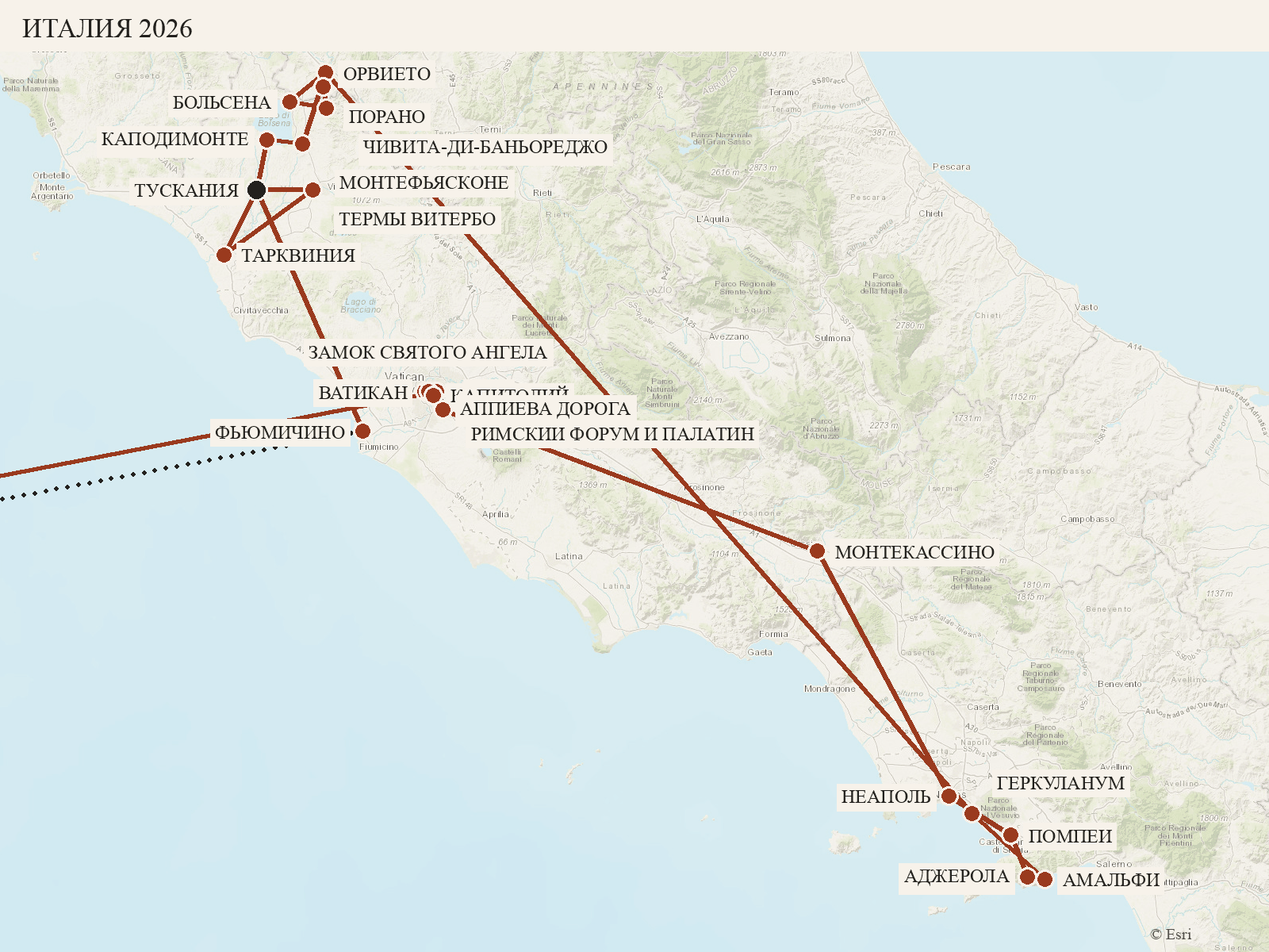
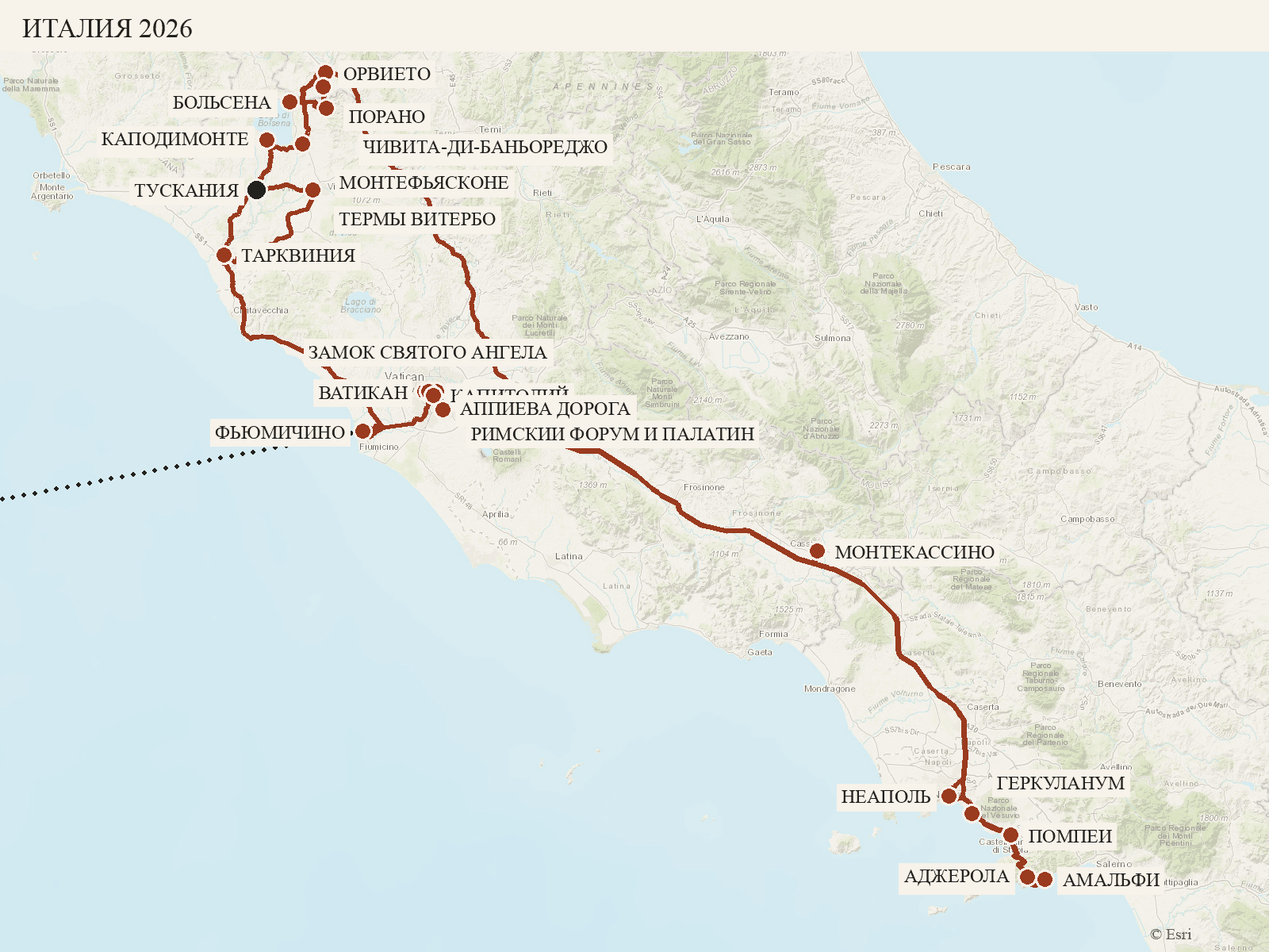
Карта по реальным дорогам вместо прямых линий
- tools/road_routes.py: один раз берёт маршруты у OSRM, упрощает до ~40 м, data/roads.json (26 КБ)
- живая карта и статичная PNG рисуют дороги; перелёты по-прежнему пунктиром
- 30.10: Лиссабон → Фьюмичино (перелёт) → Рим (машина)

diff --git a/data/trip.js b/data/trip.js
@@ -1,1 +1,1 @@
-window.TRIP={"today":"2026-11-11","stops":[{"id":"orvieto","name":"Орвието","lat":42.7185,"lon":12.1107,"kind":"town","note":null},{"id":"montefiascone","name":"Монтефьясконе","lat":42.537,"lon":12.031,"kind":"town","note":null},{"id":"capodimonte","name":"Каподимонте","lat":42.547,"lon":11.906,"kind":"town","note":null},{"id":"tuscania","name":"Тускания","lat":42.4206,"lon":11.8706,"kind":"stay","note":"жильё 10–13.11"},{"id":"tarquinia","name":"Тарквиния","lat":42.254,"lon":11.758,"kind":"site","note":"этрусский некрополь и музей"},{"id":"viterbo-terme","name":"Термы Витербо","lat":42.4207,"lon":12.0675,"kind":"site","note":null},{"id":"fiumicino","name":"Фьюмичино","lat":41.8003,"lon":12.2389,"kind":"airport","note":null},{"id":"lisbon","name":"Лиссабон","lat":38.7223,"lon":-9.1393,"kind":"transit","note":null},{"id":"rome","name":"Рим","lat":41.9028,"lon":12.4964,"kind":"town","note":null},{"id":"vatican","name":"Ватикан","lat":41.9022,"lon":12.4539,"kind":"site","note":"собор Святого Петра"},{"id":"castel-santangelo","name":"Замок Святого Ангела","lat":41.9031,"lon":12.4663,"kind":"site","note":null},{"id":"forum","name":"Римский форум и Палатин","lat":41.8925,"lon":12.4853,"kind":"site","note":null},{"id":"capitol","name":"Капитолий","lat":41.8933,"lon":12.4829,"kind":"site","note":null},{"id":"appia","name":"Аппиева дорога","lat":41.856,"lon":12.516,"kind":"site","note":null},{"id":"montecassino","name":"Монтекассино","lat":41.4903,"lon":13.8139,"kind":"site","note":"аббатство"},{"id":"naples","name":"Неаполь","lat":40.8518,"lon":14.2681,"kind":"town","note":null},{"id":"pompeii","name":"Помпеи","lat":40.7491,"lon":14.4847,"kind":"site","note":null},{"id":"agerola","name":"Аджерола","lat":40.6385,"lon":14.542,"kind":"town","note":null},{"id":"amalfi","name":"Амальфи","lat":40.634,"lon":14.6027,"kind":"town","note":null},{"id":"herculaneum","name":"Геркуланум","lat":40.8059,"lon":14.3478,"kind":"site","note":null},{"id":"porano","name":"Порано","lat":42.6826,"lon":12.1016,"kind":"town","note":null},{"id":"civita","name":"Чивита-ди-Баньореджо","lat":42.6276,"lon":12.1137,"kind":"town","note":null},{"id":"bolsena","name":"Больсена","lat":42.6449,"lon":11.9858,"kind":"town","note":null}],"route":[{"id":"lisbon","date":"2026-10-30"},{"id":"rome","date":"2026-10-30"},{"id":"vatican","date":"2026-10-31"},{"id":"castel-santangelo","date":"2026-10-31"},{"id":"forum","date":"2026-11-01"},{"id":"capitol","date":"2026-11-01"},{"id":"appia","date":"2026-11-02"},{"id":"montecassino","date":"2026-11-02"},{"id":"naples","date":"2026-11-02"},{"id":"pompeii","date":"2026-11-05"},{"id":"agerola","date":"2026-11-05"},{"id":"amalfi","date":"2026-11-06"},{"id":"herculaneum","date":"2026-11-07"},{"id":"orvieto","date":"2026-11-07"},{"id":"porano","date":"2026-11-08"},{"id":"civita","date":"2026-11-08"},{"id":"bolsena","date":"2026-11-08"},{"id":"orvieto","date":"2026-11-09"},{"id":"montefiascone","date":"2026-11-10"},{"id":"capodimonte","date":"2026-11-10"},{"id":"tuscania","date":"2026-11-10"},{"id":"tarquinia","date":"2026-11-11"},{"id":"viterbo-terme","date":"2026-11-11"},{"id":"tuscania","date":"2026-11-12"},{"id":"tarquinia","date":"2026-11-12"},{"id":"viterbo-terme","date":"2026-11-12"},{"id":"tuscania","date":"2026-11-13"},{"id":"fiumicino","date":"2026-11-13"},{"id":"lisbon","date":"2026-11-13"}],"days":[{"date":"2026-10-29","n":1,"title":"Вылет из Орландо","stops":[],"label":"29 октября"},{"date":"2026-10-30","n":2,"title":"Лиссабон → Рим","stops":["lisbon","rome"],"label":"30 октября"},{"date":"2026-10-31","n":3,"title":"Рим — Ватикан","stops":["rome","vatican","castel-santangelo"],"label":"31 октября"},{"date":"2026-11-01","n":4,"title":"Древний Рим","stops":["forum","capitol"],"label":"1 ноября"},{"date":"2026-11-02","n":5,"title":"Аппиева дорога и Монтекассино","stops":["appia","montecassino","naples"],"label":"2 ноября"},{"date":"2026-11-03","n":6,"title":"Неаполь","stops":["naples"],"label":"3 ноября"},{"date":"2026-11-04","n":7,"title":"Неаполь, второй день","stops":["naples"],"label":"4 ноября"},{"date":"2026-11-05","n":8,"title":"Помпеи и Аджерола","stops":["pompeii","agerola"],"label":"5 ноября"},{"date":"2026-11-06","n":9,"title":"Амальфи","stops":["agerola","amalfi"],"label":"6 ноября"},{"date":"2026-11-07","n":10,"title":"Геркуланум и Орвието","stops":["herculaneum","orvieto"],"label":"7 ноября"},{"date":"2026-11-08","n":11,"title":"Порано, Чивита, Больсена","stops":["porano","civita","bolsena"],"label":"8 ноября"},{"date":"2026-11-09","n":12,"title":"Лошади, термы, Орвието","stops":["orvieto"],"label":"9 ноября"},{"date":"2026-11-10","n":13,"title":"Монтефьясконе и Тускания","stops":["orvieto","montefiascone","capodimonte","tuscania"],"label":"10 ноября"},{"date":"2026-11-11","n":14,"title":"Тарквиния и термы Витербо","stops":["tuscania","tarquinia","viterbo-terme"],"label":"11 ноября"},{"date":"2026-11-12","n":15,"title":"Тарквиния и термы Витербо","stops":["tuscania","tarquinia","viterbo-terme"],"label":"12 ноября"},{"date":"2026-11-13","n":16,"title":"Фьюмичино — Лиссабон","stops":["tuscania","fiumicino","lisbon"],"label":"13 ноября"},{"date":"2026-11-14","n":17,"title":"Домой","stops":["lisbon"],"label":"14 ноября"}]};
+window.TRIP={"today":"2026-11-11","stops":[{"id":"orvieto","name":"Орвието","lat":42.7185,"lon":12.1107,"kind":"town","note":null},{"id":"montefiascone","name":"Монтефьясконе","lat":42.537,"lon":12.031,"kind":"town","note":null},{"id":"capodimonte","name":"Каподимонте","lat":42.547,"lon":11.906,"kind":"town","note":null},{"id":"tuscania","name":"Тускания","lat":42.4206,"lon":11.8706,"kind":"stay","note":"жильё 10–13.11"},{"id":"tarquinia","name":"Тарквиния","lat":42.254,"lon":11.758,"kind":"site","note":"этрусский некрополь и музей"},{"id":"viterbo-terme","name":"Термы Витербо","lat":42.4207,"lon":12.0675,"kind":"site","note":null},{"id":"fiumicino","name":"Фьюмичино","lat":41.8003,"lon":12.2389,"kind":"airport","note":null},{"id":"lisbon","name":"Лиссабон","lat":38.7223,"lon":-9.1393,"kind":"transit","note":null},{"id":"rome","name":"Рим","lat":41.9028,"lon":12.4964,"kind":"town","note":null},{"id":"vatican","name":"Ватикан","lat":41.9022,"lon":12.4539,"kind":"site","note":"собор Святого Петра"},{"id":"castel-santangelo","name":"Замок Святого Ангела","lat":41.9031,"lon":12.4663,"kind":"site","note":null},{"id":"forum","name":"Римский форум и Палатин","lat":41.8925,"lon":12.4853,"kind":"site","note":null},{"id":"capitol","name":"Капитолий","lat":41.8933,"lon":12.4829,"kind":"site","note":null},{"id":"appia","name":"Аппиева дорога","lat":41.856,"lon":12.516,"kind":"site","note":null},{"id":"montecassino","name":"Монтекассино","lat":41.4903,"lon":13.8139,"kind":"site","note":"аббатство"},{"id":"naples","name":"Неаполь","lat":40.8518,"lon":14.2681,"kind":"town","note":null},{"id":"pompeii","name":"Помпеи","lat":40.7491,"lon":14.4847,"kind":"site","note":null},{"id":"agerola","name":"Аджерола","lat":40.6385,"lon":14.542,"kind":"town","note":null},{"id":"amalfi","name":"Амальфи","lat":40.634,"lon":14.6027,"kind":"town","note":null},{"id":"herculaneum","name":"Геркуланум","lat":40.8059,"lon":14.3478,"kind":"site","note":null},{"id":"porano","name":"Порано","lat":42.6826,"lon":12.1016,"kind":"town","note":null},{"id":"civita","name":"Чивита-ди-Баньореджо","lat":42.6276,"lon":12.1137,"kind":"town","note":null},{"id":"bolsena","name":"Больсена","lat":42.6449,"lon":11.9858,"kind":"town","note":null}],"route":[{"id":"lisbon","date":"2026-10-30"},{"id":"fiumicino","date":"2026-10-30"},{"id":"rome","date":"2026-10-30"},{"id":"vatican","date":"2026-10-31"},{"id":"castel-santangelo","date":"2026-10-31"},{"id":"forum","date":"2026-11-01"},{"id":"capitol","date":"2026-11-01"},{"id":"appia","date":"2026-11-02"},{"id":"montecassino","date":"2026-11-02"},{"id":"naples","date":"2026-11-02"},{"id":"pompeii","date":"2026-11-05"},{"id":"agerola","date":"2026-11-05"},{"id":"amalfi","date":"2026-11-06"},{"id":"herculaneum","date":"2026-11-07"},{"id":"orvieto","date":"2026-11-07"},{"id":"porano","date":"2026-11-08"},{"id":"civita","date":"2026-11-08"},{"id":"bolsena","date":"2026-11-08"},{"id":"orvieto","date":"2026-11-09"},{"id":"montefiascone","date":"2026-11-10"},{"id":"capodimonte","date":"2026-11-10"},{"id":"tuscania","date":"2026-11-10"},{"id":"tarquinia","date":"2026-11-11"},{"id":"viterbo-terme","date":"2026-11-11"},{"id":"tuscania","date":"2026-11-12"},{"id":"tarquinia","date":"2026-11-12"},{"id":"viterbo-terme","date":"2026-11-12"},{"id":"tuscania","date":"2026-11-13"},{"id":"fiumicino","date":"2026-11-13"},{"id":"lisbon","date":"2026-11-13"}],"roads":{"fiumicino>rome":[[41.8022,12.2379],[41.8096,12.2648],[41.8112,12.264],[41.8107,12.2621],[41.8114,12.261],[41.8029,12.2653],[41.8028,12.2667],[41.8012,12.2684],[41.8007,12.2669],[41.8,12.2669],[41.7987,12.2625],[41.799,12.2615],[41.7973,12.2605],[41.7963,12.2625],[41.7936,12.2608],[41.7924,12.2644],[41.7909,12.2634],[41.7896,12.2657],[41.7882,12.2648],[41.789,12.2625],[41.7863,12.2609],[41.7855,12.2622],[41.7903,12.2735],[41.8083,12.3059],[41.811,12.3136],[41.8202,12.4123],[41.8209,12.4154],[41.824,12.4192],[41.8301,12.4202],[41.8333,12.4238],[41.834,12.4278],[41.8315,12.435],[41.8316,12.4408],[41.8334,12.4468],[41.8376,12.4507],[41.8391,12.4532],[41.8505,12.4591],[41.8547,12.4584],[41.8576,12.4592],[41.8614,12.4629],[41.8615,12.4639],[41.8691,12.467],[41.8693,12.4679],[41.8743,12.4676],[41.8757,12.4713],[41.8778,12.4707],[41.8793,12.4714],[41.8865,12.4801],[41.8884,12.4814],[41.8918,12.4803],[41.8937,12.4818],[41.8966,12.4819],[41.8969,12.4837],[41.8963,12.487],[41.8993,12.487],[41.9034,12.4928],[41.9042,12.4944],[41.9025,12.496],[41.9029,12.4965]],"rome>vatican":[[41.9029,12.4965],[41.8963,12.4864],[41.8962,12.4855],[41.8972,12.4849],[41.896,12.4785],[41.8978,12.469],[41.9016,12.4638],[41.8998,12.4625],[41.9002,12.4551],[41.8989,12.4505],[41.8997,12.4505],[41.8999,12.4543],[41.9002,12.4528],[41.9009,12.453],[41.9015,12.4553],[41.9016,12.4539]],"vatican>castel-santangelo":[[41.9016,12.4539],[41.9009,12.4535],[41.9015,12.4562],[41.9003,12.4566],[41.8996,12.46],[41.8998,12.4642],[41.9011,12.4656],[41.9021,12.4716],[41.9031,12.471],[41.903,12.4699],[41.9043,12.4688],[41.9031,12.4682]],"castel-santangelo>forum":[[41.9031,12.4682],[41.9043,12.4688],[41.9055,12.4662],[41.904,12.464],[41.9021,12.4644],[41.9009,12.463],[41.8994,12.4627],[41.8959,12.4652],[41.8915,12.4708],[41.8892,12.4782],[41.8891,12.4802],[41.8907,12.4794],[41.8911,12.4823],[41.892,12.4838],[41.8916,12.4845]],"forum>capitol":[[41.8916,12.4845],[41.8914,12.485],[41.8882,12.4833],[41.8893,12.4812],[41.8918,12.4803],[41.8936,12.4818]],"capitol>appia":[[41.8936,12.4818],[41.8918,12.4803],[41.8887,12.4815],[41.8878,12.4811],[41.8836,12.4879],[41.8842,12.4891],[41.8832,12.4908],[41.8773,12.499],[41.8738,12.5014],[41.8667,12.5033],[41.8653,12.5058],[41.8561,12.5161]],"appia>montecassino":[[41.8561,12.5161],[41.8556,12.5168],[41.8578,12.5182],[41.8552,12.5253],[41.8525,12.527],[41.8554,12.5309],[41.861,12.5339],[41.8612,12.5348],[41.8602,12.5368],[41.8646,12.5421],[41.8646,12.545],[41.8621,12.5526],[41.8532,12.5685],[41.8392,12.589],[41.8369,12.5908],[41.8361,12.5901],[41.8369,12.5899],[41.8465,12.5953],[41.8517,12.5972],[41.8524,12.5985],[41.8345,12.6488],[41.8328,12.6523],[41.826,12.6729],[41.826,12.6771],[41.8291,12.6942],[41.826,12.7208],[41.8269,12.736],[41.8185,12.7706],[41.8176,12.7907],[41.8163,12.7943],[41.7956,12.8343],[41.7816,12.859],[41.7792,12.8654],[41.7579,12.9615],[41.7493,12.9924],[41.7485,13.0581],[41.748,13.0616],[41.6886,13.184],[41.651,13.2409],[41.6419,13.2615],[41.6336,13.273],[41.6145,13.3261],[41.6112,13.3296],[41.5965,13.336],[41.594,13.3377],[41.5917,13.3404],[41.58,13.3599],[41.5589,13.4104],[41.557,13.4175],[41.5427,13.4993],[41.5441,13.5589],[41.5433,13.5687],[41.5417,13.5767],[41.5384,13.5867],[41.4702,13.7461],[41.4595,13.793],[41.4582,13.7947],[41.4599,13.7962],[41.4597,13.7999],[41.4633,13.8026],[41.4705,13.8139],[41.4728,13.8152],[41.4795,13.8154],[41.481,13.8233],[41.4825,13.8251],[41.4909,13.8256],[41.4886,13.8246],[41.4855,13.8247],[41.4837,13.8233],[41.4834,13.8217],[41.4856,13.8238],[41.487,13.8226],[41.4892,13.8225],[41.4909,13.8233],[41.4913,13.8224],[41.4935,13.8221],[41.4947,13.8227],[41.4937,13.8218],[41.4909,13.8216],[41.4884,13.8204],[41.4908,13.8209],[41.4932,13.8201],[41.4909,13.8203],[41.488,13.8191],[41.4849,13.8158],[41.4846,13.8136],[41.4857,13.8104],[41.4851,13.8146],[41.4872,13.8164],[41.4857,13.8142],[41.487,13.8116],[41.487,13.81],[41.4873,13.8116],[41.4868,13.814],[41.4916,13.8162],[41.4922,13.8153],[41.4919,13.813],[41.489,13.8112],[41.4884,13.8127],[41.4901,13.8132]],"montecassino>naples":[[41.4901,13.8132],[41.4884,13.8128],[41.4884,13.8116],[41.489,13.8112],[41.4919,13.813],[41.4922,13.8153],[41.4916,13.8162],[41.4868,13.814],[41.4873,13.8116],[41.487,13.81],[41.487,13.8116],[41.4857,13.8142],[41.4872,13.8164],[41.4851,13.8146],[41.4857,13.8104],[41.4846,13.8136],[41.4849,13.8158],[41.488,13.8191],[41.4909,13.8203],[41.4932,13.8201],[41.4908,13.8209],[41.4884,13.8204],[41.4909,13.8216],[41.4937,13.8218],[41.4946,13.8228],[41.4935,13.8221],[41.4913,13.8224],[41.4909,13.8233],[41.4892,13.8225],[41.487,13.8226],[41.4856,13.8238],[41.4833,13.8217],[41.4837,13.8233],[41.4855,13.8247],[41.4886,13.8246],[41.4905,13.8253],[41.49,13.8256],[41.4833,13.8252],[41.4811,13.8235],[41.4782,13.8228],[41.4755,13.8237],[41.4738,13.8203],[41.4736,13.8153],[41.473,13.8137],[41.4694,13.8125],[41.4662,13.8077],[41.463,13.8013],[41.4622,13.8015],[41.4602,13.7998],[41.46,13.7962],[41.4583,13.7953],[41.4583,13.7945],[41.4588,13.7944],[41.459,13.7953],[41.4408,13.8765],[41.4039,13.9717],[41.4006,13.9773],[41.3229,14.0812],[41.3184,14.0847],[41.3021,14.0906],[41.2354,14.0925],[41.2304,14.094],[41.2181,14.0997],[41.2157,14.1028],[41.1929,14.1514],[41.1385,14.2022],[41.1216,14.2274],[41.1136,14.2368],[41.102,14.2612],[41.0878,14.286],[41.0712,14.3035],[41.0612,14.3112],[41.0517,14.321],[41.0481,14.3224],[41.0276,14.3218],[41.0188,14.3222],[40.9572,14.3277],[40.8931,14.3177],[40.8915,14.3157],[40.8899,14.3081],[40.8871,14.3034],[40.8808,14.2933],[40.8747,14.2881],[40.8722,14.284],[40.8719,14.2828],[40.8724,14.278],[40.8704,14.2742],[40.8635,14.2757],[40.8631,14.2699],[40.8533,14.2716],[40.8525,14.2711],[40.8522,14.2681],[40.8528,14.2676],[40.8518,14.2681]],"naples>pompeii":[[40.8518,14.2681],[40.8525,14.2713],[40.8503,14.2731],[40.8504,14.2773],[40.8493,14.2815],[40.8498,14.2892],[40.8479,14.2956],[40.8454,14.3014],[40.8453,14.3031],[40.8457,14.3014],[40.8465,14.3037],[40.8484,14.3135],[40.8459,14.3203],[40.8366,14.338],[40.8339,14.3418],[40.8315,14.3442],[40.8171,14.3545],[40.8081,14.3638],[40.7912,14.3776],[40.7849,14.3872],[40.7797,14.3925],[40.7693,14.4211],[40.7624,14.4423],[40.7613,14.4521],[40.75,14.4761],[40.7482,14.4786],[40.7468,14.4846],[40.7474,14.4844]],"pompeii>agerola":[[40.7474,14.4844],[40.7468,14.4843],[40.7487,14.4764],[40.7454,14.478],[40.743,14.4771],[40.7408,14.4825],[40.7384,14.4836],[40.7376,14.485],[40.7212,14.4913],[40.7182,14.4941],[40.7078,14.4988],[40.705,14.5033],[40.7024,14.5049],[40.7006,14.5046],[40.6978,14.5026],[40.6965,14.4985],[40.6938,14.4953],[40.6948,14.4955],[40.6942,14.5002],[40.6917,14.5013],[40.691,14.511],[40.6871,14.5185],[40.6857,14.5195],[40.686,14.5236],[40.6841,14.5267],[40.6796,14.5293],[40.6786,14.5291],[40.6811,14.5299],[40.6801,14.531],[40.6801,14.5329],[40.6784,14.5321],[40.678,14.5308],[40.6773,14.531],[40.6778,14.5297],[40.6761,14.5263],[40.6742,14.5247],[40.6746,14.5225],[40.6731,14.5201],[40.6734,14.5192],[40.6706,14.5168],[40.6713,14.5168],[40.6719,14.5156],[40.6712,14.5141],[40.6728,14.5143],[40.674,14.5132],[40.6734,14.5119],[40.6737,14.5103],[40.6723,14.5084],[40.6725,14.5095],[40.6717,14.5114],[40.6705,14.5123],[40.6685,14.5115],[40.6689,14.5127],[40.6682,14.5142],[40.6662,14.5137],[40.6654,14.5176],[40.6635,14.5169],[40.6638,14.5184],[40.6632,14.5195],[40.6618,14.5186],[40.6624,14.5205],[40.6619,14.5235],[40.6595,14.5276],[40.6576,14.5281],[40.6585,14.5295],[40.6576,14.5301],[40.6576,14.5313],[40.6585,14.5324],[40.6581,14.5341],[40.6572,14.5346],[40.6578,14.5356],[40.6573,14.5364],[40.6578,14.5373],[40.6564,14.5388],[40.646,14.5452],[40.6388,14.5416]],"agerola>amalfi":[[40.6388,14.5416],[40.637,14.5397],[40.6368,14.5421],[40.6347,14.5409],[40.6343,14.5399],[40.6335,14.5409],[40.6302,14.5401],[40.6265,14.5451],[40.6221,14.5472],[40.6233,14.5501],[40.6229,14.5511],[40.6231,14.5503],[40.6221,14.5486],[40.6219,14.5464],[40.6208,14.5447],[40.6211,14.5433],[40.6207,14.5432],[40.6207,14.545],[40.6214,14.5466],[40.6211,14.5497],[40.622,14.5506],[40.6215,14.554],[40.6212,14.5526],[40.6216,14.5507],[40.6204,14.5493],[40.6206,14.5469],[40.6193,14.5455],[40.6204,14.5472],[40.6198,14.5496],[40.6208,14.5513],[40.6201,14.5538],[40.6198,14.5526],[40.6203,14.5513],[40.6188,14.5489],[40.6198,14.5513],[40.6188,14.5526],[40.6197,14.5559],[40.6211,14.5559],[40.6224,14.5572],[40.626,14.5576],[40.6221,14.5593],[40.6207,14.5608],[40.6184,14.5609],[40.6188,14.5646],[40.6182,14.5696],[40.6191,14.5741],[40.6211,14.5773],[40.6232,14.5757],[40.6243,14.5804],[40.6262,14.5822],[40.6284,14.5827],[40.6253,14.583],[40.6281,14.5834],[40.6258,14.5851],[40.6255,14.5862],[40.6277,14.591],[40.6298,14.5927],[40.6302,14.5943],[40.6315,14.5958],[40.6323,14.5959],[40.6334,14.5984],[40.6339,14.6027]],"amalfi>herculaneum":[[40.6339,14.6027],[40.6334,14.5984],[40.6323,14.5959],[40.6315,14.5958],[40.6302,14.5943],[40.6298,14.5927],[40.6277,14.591],[40.6255,14.5862],[40.6258,14.5851],[40.6281,14.5834],[40.6253,14.583],[40.6284,14.5827],[40.6262,14.5822],[40.6243,14.5804],[40.6231,14.5757],[40.6211,14.5773],[40.6194,14.5749],[40.6187,14.5725],[40.6182,14.5696],[40.6188,14.5646],[40.6184,14.5609],[40.6207,14.5608],[40.6221,14.5593],[40.626,14.5576],[40.6224,14.5572],[40.6211,14.5559],[40.6197,14.5559],[40.6191,14.5547],[40.6188,14.5526],[40.6198,14.5513],[40.6188,14.5489],[40.6203,14.5513],[40.62,14.5538],[40.6208,14.5513],[40.6198,14.5499],[40.6204,14.5472],[40.6193,14.5454],[40.6207,14.547],[40.6204,14.5493],[40.6216,14.5507],[40.6212,14.5526],[40.6216,14.5539],[40.622,14.5506],[40.6211,14.5497],[40.6214,14.5466],[40.6207,14.545],[40.6207,14.5432],[40.6211,14.5433],[40.6208,14.5447],[40.6219,14.5464],[40.6221,14.5486],[40.6231,14.5503],[40.6229,14.5511],[40.6233,14.5501],[40.6221,14.5472],[40.6266,14.545],[40.6277,14.5461],[40.6304,14.5417],[40.6318,14.5433],[40.6338,14.5427],[40.6342,14.5399],[40.6397,14.5447],[40.6424,14.5441],[40.6428,14.5433],[40.6458,14.5452],[40.6564,14.5388],[40.6578,14.5373],[40.6573,14.5364],[40.6578,14.5356],[40.6572,14.5346],[40.6581,14.5341],[40.6585,14.5324],[40.6576,14.5313],[40.6576,14.5301],[40.6585,14.5295],[40.6576,14.5281],[40.6595,14.5276],[40.6619,14.5235],[40.6624,14.5205],[40.6618,14.5186],[40.6632,14.5195],[40.6638,14.5184],[40.6635,14.5169],[40.6654,14.5176],[40.6662,14.5137],[40.6682,14.5142],[40.6689,14.5127],[40.6685,14.5115],[40.6705,14.5123],[40.6717,14.5114],[40.6725,14.5095],[40.6724,14.5084],[40.6737,14.5103],[40.6734,14.5119],[40.674,14.5132],[40.6728,14.5143],[40.6712,14.5141],[40.6719,14.5156],[40.6713,14.5168],[40.6706,14.5168],[40.6734,14.5192],[40.6731,14.5201],[40.6746,14.5225],[40.6742,14.5247],[40.6761,14.5263],[40.6778,14.5297],[40.6773,14.531],[40.6781,14.5309],[40.6784,14.5321],[40.68,14.5329],[40.6801,14.531],[40.6811,14.5299],[40.6786,14.5291],[40.6796,14.5293],[40.6841,14.5267],[40.686,14.5236],[40.6857,14.5195],[40.6871,14.5185],[40.691,14.511],[40.6917,14.5013],[40.6942,14.5006],[40.6948,14.4956],[40.6938,14.4952],[40.6925,14.4966],[40.6923,14.496],[40.6939,14.4959],[40.6954,14.4968],[40.6981,14.5029],[40.7009,14.5047],[40.7031,14.5047],[40.705,14.5033],[40.7078,14.4988],[40.7182,14.4941],[40.7212,14.4913],[40.7378,14.485],[40.7421,14.4824],[40.7449,14.4823],[40.7456,14.4809],[40.7483,14.4795],[40.7614,14.4523],[40.7624,14.4426],[40.7699,14.4197],[40.7798,14.3926],[40.7848,14.3875],[40.7912,14.3777],[40.8082,14.3639],[40.815,14.3568],[40.8156,14.3568],[40.816,14.3579],[40.817,14.3573],[40.8159,14.3578],[40.8152,14.356],[40.8155,14.3555],[40.815,14.3558],[40.8124,14.352],[40.8066,14.3468]],"herculaneum>orvieto":[[40.8066,14.3468],[40.8134,14.3531],[40.8159,14.3579],[40.8169,14.3573],[40.8159,14.3571],[40.8167,14.355],[40.8316,14.3443],[40.8345,14.3413],[40.8421,14.3282],[40.847,14.3181],[40.8494,14.3163],[40.8538,14.3184],[40.8564,14.3183],[40.8687,14.3215],[40.8886,14.3175],[40.9573,14.3278],[41.0197,14.3223],[41.0481,14.3226],[41.0516,14.3213],[41.0616,14.3111],[41.0712,14.3036],[41.0879,14.286],[41.1041,14.2576],[41.1142,14.2361],[41.1218,14.2274],[41.1386,14.2022],[41.193,14.1515],[41.2159,14.1028],[41.218,14.0999],[41.2209,14.0982],[41.2345,14.0929],[41.3004,14.0911],[41.3052,14.09],[41.3203,14.0838],[41.3234,14.081],[41.4021,13.9754],[41.4072,13.9636],[41.4411,13.8759],[41.4702,13.7464],[41.5326,13.6007],[41.5413,13.5786],[41.5436,13.5676],[41.5442,13.5585],[41.5429,13.4993],[41.5572,13.4172],[41.5588,13.4109],[41.5801,13.36],[41.5918,13.3406],[41.5958,13.3365],[41.6109,13.33],[41.6146,13.3261],[41.6335,13.2735],[41.6423,13.2611],[41.6507,13.2415],[41.6888,13.1839],[41.7475,13.0634],[41.7486,13.0577],[41.7494,12.9925],[41.7582,12.9611],[41.7789,12.8671],[41.7819,12.859],[41.8077,12.8119],[41.812,12.8088],[41.8216,12.8063],[41.8448,12.7935],[41.8538,12.7853],[41.8621,12.7789],[41.8695,12.7695],[41.8733,12.7665],[41.8839,12.7636],[41.8953,12.7556],[41.9109,12.7493],[41.931,12.7389],[41.934,12.736],[41.9367,12.732],[41.946,12.7099],[41.9493,12.7046],[41.9519,12.7027],[41.956,12.7009],[41.9691,12.6974],[41.9729,12.6954],[41.9761,12.6921],[41.9878,12.6753],[41.9912,12.6724],[41.9953,12.6714],[42.0087,12.6709],[42.0118,12.672],[42.0207,12.6783],[42.0236,12.679],[42.0263,12.6786],[42.0306,12.6761],[42.0345,12.6724],[42.0378,12.6678],[42.0436,12.6563],[42.0466,12.6535],[42.0525,12.6504],[42.0567,12.6429],[42.059,12.6404],[42.0624,12.6388],[42.0728,12.6384],[42.0782,12.6369],[42.0845,12.6332],[42.0962,12.624],[42.0995,12.6222],[42.1245,12.6174],[42.1294,12.6172],[42.1329,12.6179],[42.1489,12.6243],[42.1545,12.6245],[42.1594,12.622],[42.1797,12.6027],[42.1818,12.6023],[42.1947,12.6042],[42.2012,12.6025],[42.2068,12.6035],[42.2135,12.6006],[42.2164,12.5977],[42.2204,12.5959],[42.2239,12.5922],[42.2341,12.5918],[42.2358,12.5911],[42.2403,12.5858],[42.2474,12.5796],[42.2487,12.5777],[42.256,12.5563],[42.2682,12.5503],[42.2699,12.5484],[42.2826,12.5213],[42.2882,12.5037],[42.2914,12.4994],[42.3044,12.4932],[42.3114,12.4947],[42.3212,12.4897],[42.3263,12.4831],[42.3313,12.4699],[42.333,12.4678],[42.3351,12.4667],[42.338,12.467],[42.3438,12.4705],[42.3505,12.4714],[42.3726,12.4709],[42.3781,12.4719],[42.3877,12.4701],[42.4004,12.4581],[42.4152,12.442],[42.4277,12.4323],[42.4359,12.421],[42.4453,12.4176],[42.4473,12.416],[42.453,12.4011],[42.4551,12.3988],[42.4626,12.3942],[42.4646,12.3912],[42.4678,12.3585],[42.4713,12.3499],[42.4778,12.3428],[42.4888,12.3283],[42.5018,12.3086],[42.5097,12.2928],[42.5179,12.2822],[42.5215,12.2695],[42.5233,12.2661],[42.5259,12.2635],[42.5289,12.2619],[42.5526,12.2554],[42.5915,12.2377],[42.6442,12.2271],[42.6524,12.2226],[42.6589,12.2238],[42.6604,12.2228],[42.6626,12.2198],[42.6663,12.2182],[42.6743,12.211],[42.6771,12.2104],[42.6832,12.2115],[42.688,12.2106],[42.6904,12.2095],[42.694,12.2064],[42.6961,12.2031],[42.6992,12.1949],[42.6989,12.1835],[42.7045,12.1633],[42.7066,12.1594],[42.7102,12.155],[42.7141,12.1508],[42.7146,12.1507],[42.7148,12.1515],[42.7142,12.1515],[42.7135,12.1498],[42.7149,12.1463],[42.7218,12.1347],[42.7214,12.1333],[42.7221,12.131],[42.7216,12.1291],[42.7232,12.1258],[42.7251,12.1238],[42.7262,12.1201],[42.7257,12.1138],[42.7227,12.108],[42.7213,12.1027],[42.7196,12.1021],[42.7182,12.1037],[42.7176,12.1036],[42.7159,12.1077],[42.7168,12.1079],[42.7153,12.1096],[42.7156,12.1104],[42.7179,12.1108]],"orvieto>porano":[[42.7179,12.1108],[42.7181,12.1133],[42.7174,12.1145],[42.7195,12.1144],[42.72,12.1078],[42.7187,12.1077],[42.7179,12.1038],[42.7183,12.1036],[42.7167,12.1001],[42.7169,12.0989],[42.7158,12.0982],[42.7136,12.0927],[42.7154,12.0895],[42.7142,12.0859],[42.715,12.0841],[42.7152,12.0809],[42.7148,12.0805],[42.7142,12.0819],[42.7126,12.0833],[42.7137,12.0805],[42.7118,12.0822],[42.7097,12.0816],[42.7097,12.0808],[42.711,12.0801],[42.7086,12.0794],[42.7103,12.077],[42.707,12.0784],[42.7044,12.0814],[42.7025,12.081],[42.7025,12.0833],[42.7016,12.0844],[42.7,12.0846],[42.7002,12.0858],[42.6987,12.0897],[42.6968,12.0891],[42.6968,12.0906],[42.6944,12.0923],[42.6884,12.0918],[42.6886,12.0943],[42.6867,12.0963],[42.6844,12.0964],[42.6842,12.0983],[42.6812,12.1013],[42.6815,12.1028],[42.6826,12.102]],"porano>civita":[[42.6826,12.102],[42.6815,12.1028],[42.681,12.1017],[42.6787,12.1049],[42.6777,12.1077],[42.676,12.1079],[42.675,12.1102],[42.6713,12.1135],[42.67,12.1122],[42.6683,12.1143],[42.6663,12.1144],[42.6653,12.1099],[42.6645,12.1097],[42.6597,12.1043],[42.6571,12.1033],[42.6559,12.1038],[42.6549,12.1025],[42.6474,12.1017],[42.6425,12.0998],[42.636,12.0932],[42.6356,12.0935],[42.6353,12.0967],[42.6339,12.0988],[42.6335,12.0964],[42.6325,12.0961],[42.6324,12.0942],[42.6351,12.0892],[42.6322,12.0908],[42.6317,12.0922],[42.6297,12.0912],[42.6285,12.0943],[42.6277,12.0936],[42.6266,12.0883],[42.627,12.0902],[42.6261,12.091],[42.6241,12.1004],[42.6242,12.0968],[42.6235,12.0973],[42.6223,12.1006],[42.6224,12.1035],[42.6215,12.1045],[42.6217,12.1084],[42.6214,12.1068],[42.6209,12.108],[42.6218,12.1128],[42.6225,12.1133],[42.6222,12.1155],[42.6229,12.1158],[42.622,12.1168],[42.6222,12.1189],[42.6241,12.1178]],"civita>bolsena":[[42.6241,12.1178],[42.6222,12.1189],[42.622,12.1168],[42.6229,12.1158],[42.6222,12.1155],[42.6225,12.1133],[42.6218,12.1128],[42.6209,12.108],[42.6214,12.1068],[42.6217,12.1084],[42.6215,12.1045],[42.6224,12.1035],[42.6223,12.1006],[42.6235,12.0973],[42.6242,12.0968],[42.6241,12.1004],[42.6261,12.091],[42.627,12.0902],[42.6265,12.0884],[42.6272,12.0892],[42.6278,12.0869],[42.6327,12.0779],[42.6321,12.0748],[42.6356,12.0728],[42.6381,12.0755],[42.6417,12.0777],[42.6442,12.0739],[42.6423,12.0463],[42.6423,12.0396],[42.6436,12.0351],[42.6427,12.03],[42.644,12.0219],[42.6452,12.0202],[42.6454,12.0173],[42.6465,12.0161],[42.647,12.0142],[42.6466,12.0118],[42.645,12.0111],[42.6442,12.0094],[42.6447,12.0062],[42.6465,12.0043],[42.6472,12.0007],[42.6465,11.9994],[42.6476,11.998],[42.6492,11.9979],[42.6488,11.9959],[42.6494,11.9931],[42.6507,11.9924],[42.6489,11.9903],[42.6503,11.9879],[42.6501,11.9862],[42.651,11.9847],[42.6506,11.9844],[42.6481,11.9869],[42.6465,11.9857],[42.6466,11.9887],[42.6459,11.9872],[42.6457,11.9879],[42.6445,11.988],[42.6442,11.9862],[42.6447,11.9855]],"bolsena>orvieto":[[42.6447,11.9855],[42.6441,11.9865],[42.6445,11.988],[42.6457,11.9879],[42.6459,11.9872],[42.6466,11.9887],[42.6465,11.9857],[42.6481,11.9869],[42.6506,11.9844],[42.651,11.9847],[42.6501,11.9862],[42.6503,11.9879],[42.6489,11.9903],[42.6507,11.9924],[42.6494,11.9931],[42.6488,11.9959],[42.6492,11.9979],[42.6476,11.998],[42.6465,11.9993],[42.6472,12.0007],[42.6465,12.0043],[42.6446,12.0067],[42.6442,12.0099],[42.6465,12.0116],[42.647,12.0143],[42.6465,12.0161],[42.6454,12.0173],[42.6452,12.0202],[42.644,12.022],[42.6427,12.03],[42.6435,12.0341],[42.6498,12.0307],[42.6681,12.0328],[42.6711,12.0317],[42.675,12.0318],[42.6784,12.0328],[42.679,12.0342],[42.6787,12.0386],[42.6796,12.0428],[42.6848,12.0507],[42.6853,12.0541],[42.6898,12.0621],[42.6946,12.0652],[42.6974,12.0695],[42.7,12.0711],[42.7018,12.0803],[42.7039,12.0816],[42.7057,12.0805],[42.707,12.0784],[42.7094,12.0779],[42.7102,12.077],[42.7086,12.0794],[42.711,12.0801],[42.7097,12.0808],[42.7097,12.0816],[42.7118,12.0822],[42.7137,12.0805],[42.7126,12.0833],[42.7142,12.0819],[42.7148,12.0805],[42.7151,12.0808],[42.715,12.0841],[42.7142,12.0859],[42.7154,12.0895],[42.7136,12.0927],[42.7158,12.0982],[42.7167,12.0986],[42.7166,12.1014],[42.7149,12.1067],[42.7176,12.1036],[42.7159,12.1077],[42.7168,12.1079],[42.7154,12.11],[42.7179,12.1108]],"orvieto>montefiascone":[[42.7179,12.1108],[42.7181,12.1133],[42.7174,12.1145],[42.7195,12.1144],[42.72,12.1078],[42.7187,12.1077],[42.7179,12.1038],[42.7183,12.1036],[42.7167,12.1001],[42.7169,12.0989],[42.7158,12.0982],[42.7136,12.0927],[42.7154,12.0895],[42.7142,12.0859],[42.715,12.0841],[42.7151,12.0808],[42.7148,12.0805],[42.7142,12.0819],[42.7126,12.0833],[42.7137,12.0805],[42.7118,12.0822],[42.7097,12.0816],[42.7097,12.0808],[42.711,12.0801],[42.7086,12.0794],[42.7102,12.077],[42.7094,12.0779],[42.707,12.0784],[42.7057,12.0805],[42.7039,12.0816],[42.7018,12.0803],[42.7,12.0711],[42.6974,12.0695],[42.6946,12.0652],[42.6898,12.0621],[42.6853,12.0541],[42.6848,12.0507],[42.6796,12.0428],[42.6787,12.0386],[42.679,12.034],[42.678,12.0326],[42.6716,12.0317],[42.6681,12.0328],[42.6498,12.0307],[42.6403,12.0359],[42.6343,12.0365],[42.6312,12.0355],[42.6237,12.0365],[42.6149,12.0384],[42.6096,12.0418],[42.6058,12.0412],[42.5911,12.0418],[42.586,12.0406],[42.5819,12.0417],[42.5798,12.0478],[42.5744,12.0496],[42.5659,12.0482],[42.5603,12.0441],[42.5554,12.0435],[42.5457,12.0396],[42.5411,12.036],[42.5415,12.0352],[42.5407,12.0337],[42.5381,12.0331],[42.5366,12.0311],[42.537,12.0309]],"montefiascone>capodimonte":[[42.537,12.0309],[42.5356,12.0305],[42.534,12.0259],[42.5314,12.0239],[42.5297,12.0213],[42.5299,12.0196],[42.5289,12.0174],[42.5272,12.0092],[42.5275,12.0068],[42.5264,12.0012],[42.5263,11.9941],[42.5278,11.9914],[42.5276,11.9852],[42.5262,11.9814],[42.5218,11.9748],[42.5246,11.9644],[42.5239,11.9574],[42.5243,11.9508],[42.5285,11.9404],[42.5281,11.9322],[42.5304,11.9221],[42.5331,11.9201],[42.5369,11.9158],[42.5401,11.9106],[42.5435,11.9085],[42.5451,11.9066],[42.5461,11.9067],[42.5465,11.9052],[42.5471,11.9056]],"capodimonte>tuscania":[[42.5471,11.9056],[42.5465,11.9052],[42.5461,11.9067],[42.5451,11.9064],[42.5435,11.9085],[42.5401,11.9106],[42.5369,11.9158],[42.5331,11.9201],[42.5307,11.9216],[42.5298,11.9248],[42.529,11.9244],[42.5292,11.9236],[42.5273,11.9226],[42.5241,11.9189],[42.5219,11.9181],[42.5133,11.9199],[42.5109,11.9183],[42.5046,11.9203],[42.471,11.913],[42.4696,11.9119],[42.4637,11.8989],[42.4587,11.8928],[42.4543,11.8891],[42.4479,11.8869],[42.4466,11.8812],[42.4354,11.8777],[42.4273,11.8762],[42.4247,11.8734],[42.4197,11.8715],[42.4201,11.8702],[42.4206,11.8706]],"tuscania>tarquinia":[[42.4206,11.8706],[42.4184,11.8703],[42.416,11.8553],[42.407,11.8458],[42.4054,11.8424],[42.4025,11.8396],[42.3997,11.8354],[42.3975,11.8335],[42.3916,11.8309],[42.3744,11.8167],[42.3729,11.8144],[42.3579,11.8077],[42.3552,11.8015],[42.3527,11.7917],[42.3465,11.7835],[42.3408,11.778],[42.3389,11.7777],[42.336,11.7799],[42.3334,11.78],[42.3314,11.7812],[42.3168,11.7822],[42.311,11.7814],[42.3054,11.7817],[42.3035,11.781],[42.2972,11.7828],[42.2944,11.7824],[42.2917,11.7797],[42.2901,11.7761],[42.2827,11.7734],[42.2792,11.7675],[42.2761,11.7655],[42.2688,11.7629],[42.267,11.7575],[42.2637,11.7505],[42.2604,11.7451],[42.2573,11.7421],[42.2559,11.7439],[42.2551,11.7437],[42.255,11.7447],[42.253,11.7476],[42.2548,11.7509],[42.2545,11.7513],[42.2548,11.7535],[42.2533,11.7548],[42.254,11.758]],"tarquinia>viterbo-terme":[[42.254,11.758],[42.2509,11.7589],[42.2512,11.7637],[42.2487,11.7701],[42.2469,11.7773],[42.2431,11.7806],[42.2347,11.795],[42.2378,11.7976],[42.2374,11.7997],[42.2395,11.805],[42.2518,11.8122],[42.26,11.8218],[42.2596,11.8241],[42.2604,11.8269],[42.2597,11.8354],[42.2612,11.8409],[42.2617,11.8479],[42.2625,11.851],[42.2623,11.8546],[42.2637,11.8659],[42.2632,11.8697],[42.2665,11.8805],[42.2677,11.8974],[42.2697,11.9019],[42.2818,11.9221],[42.2821,11.9244],[42.2816,11.9262],[42.2839,11.9321],[42.2864,11.9357],[42.2933,11.9428],[42.2956,11.9467],[42.2969,11.9518],[42.2976,11.9649],[42.3043,11.9868],[42.3061,11.9894],[42.3083,11.9911],[42.313,11.992],[42.321,11.9903],[42.3306,11.9852],[42.347,11.9816],[42.3515,11.9814],[42.3554,11.9831],[42.3589,11.9867],[42.3615,11.9924],[42.3641,12.0083],[42.3679,12.0224],[42.3714,12.0459],[42.3733,12.0508],[42.3765,12.0534],[42.4035,12.0682],[42.4146,12.0761],[42.4191,12.0784],[42.4187,12.0818],[42.4172,12.0781],[42.4148,12.0653],[42.4164,12.0643],[42.4186,12.0662],[42.4206,12.0662]],"viterbo-terme>tuscania":[[42.4206,12.0662],[42.4241,12.0654],[42.419,12.054],[42.4194,12.0486],[42.4182,12.0315],[42.4186,12.0223],[42.4202,12.0139],[42.4216,12.0105],[42.4268,12.0047],[42.4274,11.9936],[42.4299,11.9841],[42.4325,11.9775],[42.4322,11.9695],[42.4303,11.9662],[42.4304,11.9607],[42.4287,11.9579],[42.4273,11.9536],[42.4268,11.9467],[42.4278,11.9425],[42.4239,11.9294],[42.4244,11.9196],[42.4229,11.9113],[42.4154,11.8938],[42.4162,11.8914],[42.4128,11.8891],[42.4095,11.8823],[42.411,11.8773],[42.416,11.8745],[42.4153,11.872],[42.4164,11.8701],[42.4206,11.8706]],"tuscania>fiumicino":[[42.4206,11.8706],[42.4184,11.8703],[42.416,11.8553],[42.407,11.8458],[42.4054,11.8424],[42.4025,11.8396],[42.3997,11.8354],[42.3975,11.8335],[42.3916,11.8309],[42.3744,11.8167],[42.3729,11.8144],[42.3579,11.8077],[42.3552,11.8015],[42.3527,11.7917],[42.3465,11.7835],[42.3413,11.7784],[42.3389,11.7777],[42.336,11.7799],[42.3334,11.78],[42.3311,11.7812],[42.3168,11.7822],[42.311,11.7814],[42.3054,11.7817],[42.3035,11.781],[42.2972,11.7828],[42.2944,11.7824],[42.2917,11.7797],[42.2901,11.7761],[42.2827,11.7734],[42.2792,11.7675],[42.2761,11.7655],[42.2688,11.7629],[42.267,11.7575],[42.2637,11.7505],[42.2604,11.7451],[42.2573,11.7421],[42.2559,11.7439],[42.2551,11.7437],[42.2521,11.7495],[42.249,11.7522],[42.2457,11.7569],[42.2433,11.7571],[42.2325,11.7533],[42.2323,11.7563],[42.2311,11.7596],[42.2353,11.7606],[42.2357,11.7615],[42.2349,11.7627],[42.2318,11.7655],[42.2175,11.7733],[42.2109,11.7809],[42.2067,11.784],[42.203,11.7851],[42.1877,11.7868],[42.1825,11.7891],[42.1761,11.7874],[42.1663,11.7883],[42.1634,11.7893],[42.1525,11.7998],[42.1511,11.8024],[42.1476,11.8136],[42.1457,11.8163],[42.1438,11.8175],[42.1349,11.8195],[42.1258,11.8238],[42.1177,11.8229],[42.1161,11.8239],[42.1137,11.827],[42.1119,11.8279],[42.1059,11.8263],[42.099,11.8282],[42.0893,11.8285],[42.0758,11.8238],[42.0665,11.8223],[42.0543,11.8261],[42.0518,11.8286],[42.0395,11.8497],[42.0397,11.8529],[42.0423,11.857],[42.0429,11.8592],[42.0445,11.8787],[42.0448,11.892],[42.0437,11.9046],[42.0437,11.9241],[42.043,11.9273],[42.0311,11.9556],[42.0283,11.9777],[42.0086,12.0268],[41.9994,12.0456],[41.9882,12.0646],[41.979,12.0868],[41.9667,12.1138],[41.9613,12.1221],[41.9399,12.1474],[41.9377,12.1513],[41.9293,12.1878],[41.9259,12.1961],[41.9229,12.2002],[41.9195,12.2036],[41.9036,12.2138],[41.8827,12.2356],[41.8813,12.2379],[41.8788,12.2466],[41.8772,12.2492],[41.8638,12.2617],[41.8561,12.2633],[41.853,12.265],[41.8329,12.2867],[41.8108,12.3079],[41.8091,12.3071],[41.8035,12.2957],[41.8139,12.2846],[41.8113,12.2797],[41.8094,12.2803],[41.8086,12.2779],[41.8042,12.2792],[41.803,12.2752],[41.8051,12.2741],[41.8042,12.269],[41.8017,12.2696],[41.8012,12.2684],[41.8028,12.2668],[41.8029,12.2655],[41.8115,12.2613],[41.8107,12.2621],[41.8112,12.264],[41.8096,12.2648],[41.8022,12.2379]]},"days":[{"date":"2026-10-29","n":1,"title":"Вылет из Орландо","stops":[],"label":"29 октября"},{"date":"2026-10-30","n":2,"title":"Лиссабон → Рим","stops":["lisbon","fiumicino","rome"],"label":"30 октября"},{"date":"2026-10-31","n":3,"title":"Рим — Ватикан","stops":["rome","vatican","castel-santangelo"],"label":"31 октября"},{"date":"2026-11-01","n":4,"title":"Древний Рим","stops":["forum","capitol"],"label":"1 ноября"},{"date":"2026-11-02","n":5,"title":"Аппиева дорога и Монтекассино","stops":["appia","montecassino","naples"],"label":"2 ноября"},{"date":"2026-11-03","n":6,"title":"Неаполь","stops":["naples"],"label":"3 ноября"},{"date":"2026-11-04","n":7,"title":"Неаполь, второй день","stops":["naples"],"label":"4 ноября"},{"date":"2026-11-05","n":8,"title":"Помпеи и Аджерола","stops":["pompeii","agerola"],"label":"5 ноября"},{"date":"2026-11-06","n":9,"title":"Амальфи","stops":["agerola","amalfi"],"label":"6 ноября"},{"date":"2026-11-07","n":10,"title":"Геркуланум и Орвието","stops":["herculaneum","orvieto"],"label":"7 ноября"},{"date":"2026-11-08","n":11,"title":"Порано, Чивита, Больсена","stops":["porano","civita","bolsena"],"label":"8 ноября"},{"date":"2026-11-09","n":12,"title":"Лошади, термы, Орвието","stops":["orvieto"],"label":"9 ноября"},{"date":"2026-11-10","n":13,"title":"Монтефьясконе и Тускания","stops":["orvieto","montefiascone","capodimonte","tuscania"],"label":"10 ноября"},{"date":"2026-11-11","n":14,"title":"Тарквиния и термы Витербо","stops":["tuscania","tarquinia","viterbo-terme"],"label":"11 ноября"},{"date":"2026-11-12","n":15,"title":"Тарквиния и термы Витербо","stops":["tuscania","tarquinia","viterbo-terme"],"label":"12 ноября"},{"date":"2026-11-13","n":16,"title":"Фьюмичино — Лиссабон","stops":["tuscania","fiumicino","lisbon"],"label":"13 ноября"},{"date":"2026-11-14","n":17,"title":"Домой","stops":["lisbon"],"label":"14 ноября"}]};

diff --git a/days/2026-10-30.html b/days/2026-10-30.html
@@ -4,7 +4,7 @@
 <meta charset="utf-8">
 <meta name="viewport" content="width=device-width, initial-scale=1">
 <title>Лиссабон → Рим — 30 октября · Италия 2026</title>
-<meta name="description" content="30 октября 2026. Лиссабон, Рим">
+<meta name="description" content="30 октября 2026. Лиссабон, Фьюмичино, Рим">
 <meta name="robots" content="noindex, nofollow">
 <meta name="theme-color" content="#efe7da">
 <link rel="preconnect" href="https://fonts.googleapis.com">
@@ -25,7 +25,7 @@
   <div>
     <p class="eyebrow">День 2 <span aria-hidden="true">·</span> Dies II</p>
     <h1>Лиссабон → Рим</h1>
-    <ul class="places" aria-label="Места"><li>Лиссабон</li><li>Рим</li></ul>
+    <ul class="places" aria-label="Места"><li>Лиссабон</li><li>Фьюмичино</li><li>Рим</li></ul>
   </div>
 </header>
 <div class="stripe" aria-hidden="true"></div>
@@ -58,9 +58,9 @@
   <button class="lb-btn lb-close" type="button" aria-label="Закрыть">×</button>
   <p class="lb-count" aria-live="polite"></p>
 </dialog>
-<script src="../data/trip.js?v=d0d606b1"></script>
+<script src="../data/trip.js?v=04da77a5"></script>
 <script defer src="https://unpkg.com/leaflet@1.9.4/dist/leaflet.js"></script>
-<script defer src="../js/map.js?v=6cae90f3"></script>
+<script defer src="../js/map.js?v=d5dac4f9"></script>
 <script defer src="../js/gallery.js?v=3f765b4d"></script>
 </body>
 </html>

diff --git a/index.html b/index.html
@@ -51,7 +51,7 @@
   <img class="card-img" src="photos/2026-10-30/1-900.webp" srcset="photos/2026-10-30/1-400.webp 400w, photos/2026-10-30/1-900.webp 900w, photos/2026-10-30/1-1800.webp 1800w" sizes="(min-width: 1100px) 33vw, (min-width: 700px) 50vw, 100vw" width="1350" height="1800" alt="Табло вылетов в аэропорту Лиссабона" loading="lazy" decoding="async">
   <span class="card-date"><span class="num">30</span><span class="mon">октября</span><span class="dies">Dies II</span></span>
   <span class="card-title">Лиссабон → Рим</span>
-  <span class="card-places">Лиссабон · Рим</span>
+  <span class="card-places">Лиссабон · Фьюмичино · Рим</span>
   
 </a></li>
 <li><a class="day-card" href="days/2026-10-31.html">
@@ -174,8 +174,8 @@
   <p class="inscr">Андрей, Яна и Маша<span aria-hidden="true"> · </span>2026</p>
   <p class="fine">Карта: подложка © Esri. Фотографии — семейные, без разрешения не копировать.</p>
 </footer>
-<script src="data/trip.js?v=d0d606b1"></script>
+<script src="data/trip.js?v=04da77a5"></script>
 <script defer src="https://unpkg.com/leaflet@1.9.4/dist/leaflet.js"></script>
-<script defer src="js/map.js?v=6cae90f3"></script>
+<script defer src="js/map.js?v=d5dac4f9"></script>
 </body>
 </html>

diff --git a/days/2026-10-31.html b/days/2026-10-31.html
@@ -142,9 +142,9 @@
   <button class="lb-btn lb-close" type="button" aria-label="Закрыть">×</button>
   <p class="lb-count" aria-live="polite"></p>
 </dialog>
-<script src="../data/trip.js?v=d0d606b1"></script>
+<script src="../data/trip.js?v=04da77a5"></script>
 <script defer src="https://unpkg.com/leaflet@1.9.4/dist/leaflet.js"></script>
-<script defer src="../js/map.js?v=6cae90f3"></script>
+<script defer src="../js/map.js?v=d5dac4f9"></script>
 <script defer src="../js/gallery.js?v=3f765b4d"></script>
 </body>
 </html>

diff --git a/days/2026-11-01.html b/days/2026-11-01.html
@@ -142,9 +142,9 @@
   <button class="lb-btn lb-close" type="button" aria-label="Закрыть">×</button>
   <p class="lb-count" aria-live="polite"></p>
 </dialog>
-<script src="../data/trip.js?v=d0d606b1"></script>
+<script src="../data/trip.js?v=04da77a5"></script>
 <script defer src="https://unpkg.com/leaflet@1.9.4/dist/leaflet.js"></script>
-<script defer src="../js/map.js?v=6cae90f3"></script>
+<script defer src="../js/map.js?v=d5dac4f9"></script>
 <script defer src="../js/gallery.js?v=3f765b4d"></script>
 </body>
 </html>

diff --git a/days/2026-11-02.html b/days/2026-11-02.html
@@ -100,9 +100,9 @@
   <button class="lb-btn lb-close" type="button" aria-label="Закрыть">×</button>
   <p class="lb-count" aria-live="polite"></p>
 </dialog>
-<script src="../data/trip.js?v=d0d606b1"></script>
+<script src="../data/trip.js?v=04da77a5"></script>
 <script defer src="https://unpkg.com/leaflet@1.9.4/dist/leaflet.js"></script>
-<script defer src="../js/map.js?v=6cae90f3"></script>
+<script defer src="../js/map.js?v=d5dac4f9"></script>
 <script defer src="../js/gallery.js?v=3f765b4d"></script>
 </body>
 </html>

diff --git a/days/2026-11-03.html b/days/2026-11-03.html
@@ -142,9 +142,9 @@
   <button class="lb-btn lb-close" type="button" aria-label="Закрыть">×</button>
   <p class="lb-count" aria-live="polite"></p>
 </dialog>
-<script src="../data/trip.js?v=d0d606b1"></script>
+<script src="../data/trip.js?v=04da77a5"></script>
 <script defer src="https://unpkg.com/leaflet@1.9.4/dist/leaflet.js"></script>
-<script defer src="../js/map.js?v=6cae90f3"></script>
+<script defer src="../js/map.js?v=d5dac4f9"></script>
 <script defer src="../js/gallery.js?v=3f765b4d"></script>
 </body>
 </html>

diff --git a/days/2026-11-04.html b/days/2026-11-04.html
@@ -136,9 +136,9 @@
   <button class="lb-btn lb-close" type="button" aria-label="Закрыть">×</button>
   <p class="lb-count" aria-live="polite"></p>
 </dialog>
-<script src="../data/trip.js?v=d0d606b1"></script>
+<script src="../data/trip.js?v=04da77a5"></script>
 <script defer src="https://unpkg.com/leaflet@1.9.4/dist/leaflet.js"></script>
-<script defer src="../js/map.js?v=6cae90f3"></script>
+<script defer src="../js/map.js?v=d5dac4f9"></script>
 <script defer src="../js/gallery.js?v=3f765b4d"></script>
 </body>
 </html>

diff --git a/days/2026-11-05.html b/days/2026-11-05.html
@@ -142,9 +142,9 @@
   <button class="lb-btn lb-close" type="button" aria-label="Закрыть">×</button>
   <p class="lb-count" aria-live="polite"></p>
 </dialog>
-<script src="../data/trip.js?v=d0d606b1"></script>
+<script src="../data/trip.js?v=04da77a5"></script>
 <script defer src="https://unpkg.com/leaflet@1.9.4/dist/leaflet.js"></script>
-<script defer src="../js/map.js?v=6cae90f3"></script>
+<script defer src="../js/map.js?v=d5dac4f9"></script>
 <script defer src="../js/gallery.js?v=3f765b4d"></script>
 </body>
 </html>

diff --git a/days/2026-11-06.html b/days/2026-11-06.html
@@ -100,9 +100,9 @@
   <button class="lb-btn lb-close" type="button" aria-label="Закрыть">×</button>
   <p class="lb-count" aria-live="polite"></p>
 </dialog>
-<script src="../data/trip.js?v=d0d606b1"></script>
+<script src="../data/trip.js?v=04da77a5"></script>
 <script defer src="https://unpkg.com/leaflet@1.9.4/dist/leaflet.js"></script>
-<script defer src="../js/map.js?v=6cae90f3"></script>
+<script defer src="../js/map.js?v=d5dac4f9"></script>
 <script defer src="../js/gallery.js?v=3f765b4d"></script>
 </body>
 </html>

diff --git a/days/2026-11-07.html b/days/2026-11-07.html
@@ -124,9 +124,9 @@
   <button class="lb-btn lb-close" type="button" aria-label="Закрыть">×</button>
   <p class="lb-count" aria-live="polite"></p>
 </dialog>
-<script src="../data/trip.js?v=d0d606b1"></script>
+<script src="../data/trip.js?v=04da77a5"></script>
 <script defer src="https://unpkg.com/leaflet@1.9.4/dist/leaflet.js"></script>
-<script defer src="../js/map.js?v=6cae90f3"></script>
+<script defer src="../js/map.js?v=d5dac4f9"></script>
 <script defer src="../js/gallery.js?v=3f765b4d"></script>
 </body>
 </html>

diff --git a/days/2026-11-08.html b/days/2026-11-08.html
@@ -112,9 +112,9 @@
   <button class="lb-btn lb-close" type="button" aria-label="Закрыть">×</button>
   <p class="lb-count" aria-live="polite"></p>
 </dialog>
-<script src="../data/trip.js?v=d0d606b1"></script>
+<script src="../data/trip.js?v=04da77a5"></script>
 <script defer src="https://unpkg.com/leaflet@1.9.4/dist/leaflet.js"></script>
-<script defer src="../js/map.js?v=6cae90f3"></script>
+<script defer src="../js/map.js?v=d5dac4f9"></script>
 <script defer src="../js/gallery.js?v=3f765b4d"></script>
 </body>
 </html>
